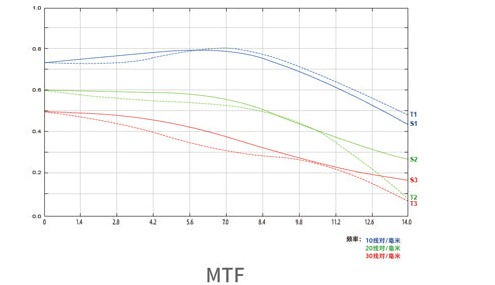
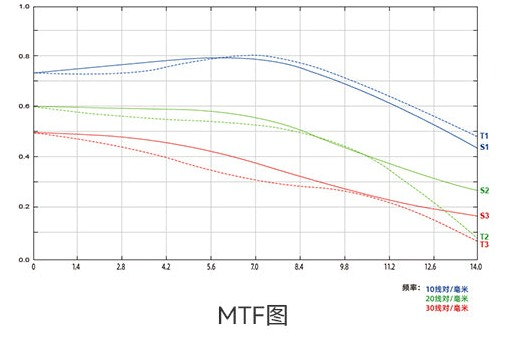
docs: use ED-Glass-legend diagram + cleaner MTF for 50mm f/0.95 (#748)
Swapped to the official product-page section image (50mm-F0_6.jpg) whose
construction diagram legends the red element as 'ED Glass' — matching the DB
'2 ED' term + the 25mm f/0.95 diagram — over the PARAMETER-panel version that
said 'HOYA Ultra-Low Dispersion Glass'. Same image also gave a cleaner MTF.
Cropped via the new tools/crop-artifact.py.

diff --git a/docs/optical-specs/7artisans-50mm-f0-95/specs-log.md b/docs/optical-specs/7artisans-50mm-f0-95/specs-log.md
@@ -22,8 +22,12 @@
 - **filterThread:** 62mm (official labeled diagram "Filter size: 62mm" + LensTip — DB's prior 52 corrected)
 - **weight:** 418g (official spec table "418g"; LensTip 416g agrees — DB's prior 540 corrected, was ~122g too high)
 - **length:** 58mm (official diagram "58mm" — DB already correct)
-- **constructionDiagram:** found — `construction-diagram.jpg` (official; legend red = HOYA Ultra-Low Dispersion glass, shows 2 ED; 7 elements / 5 groups)
-- **MTF chart:** found — `mtf-chart.jpg` (official; 10/20/30 lp/mm)
+- **constructionDiagram:** found — `construction-diagram.jpg` (official product-page section
+  image `50mm-F0_6.jpg`; legend **"ED Glass"** red, shows 2 ED; 7 elements / 5 groups).
+  Chosen over the PARAMETER-panel version (which labels the same element "HOYA Ultra-Low
+  Dispersion Glass") because "ED Glass" matches the DB `specialElements: ["2 ED"]` term and
+  the 25mm f/0.95 diagram's legend.
+- **MTF chart:** found — `mtf-chart.jpg` (official; from the same `50mm-F0_6.jpg`; T1/S1/T2/S2/T3/S3, 10/20/30 lp/mm)
 
 ## Caveats
 
